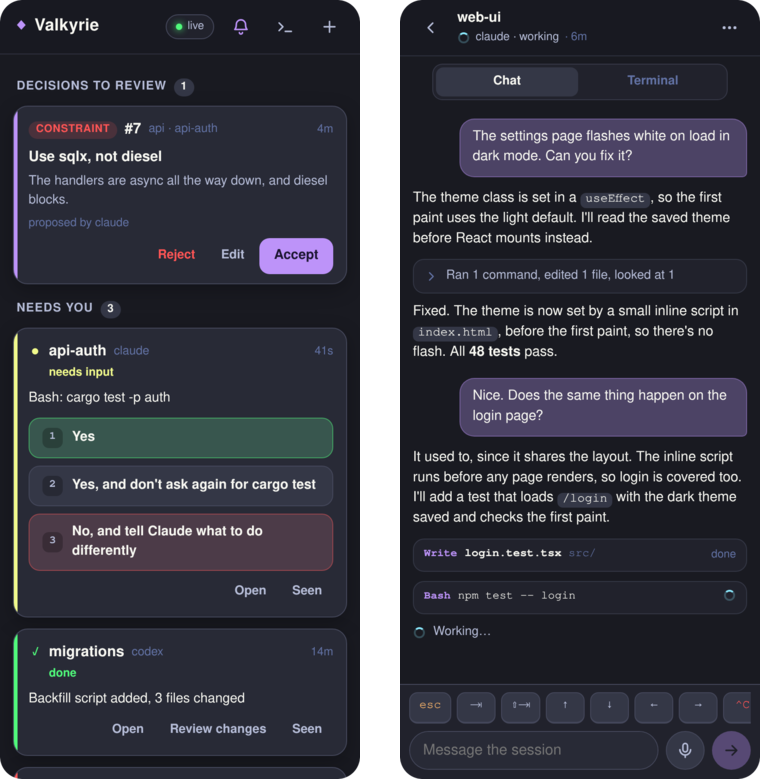
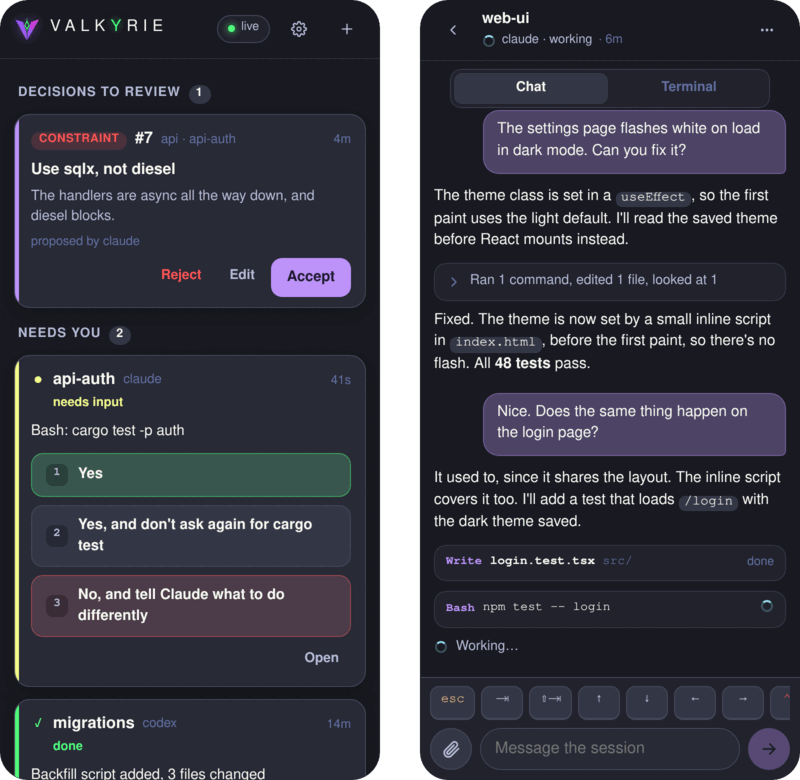
Remake the phone screenshot from the built web app, with a script
phone.png still showed the old inbox header and the Seen buttons.
docs/demo/phone.mjs renders web/dist in headless Chromium at phone size
against a stand-in daemon on the WebSocket, so the shot can be made
again after any web change without pairing or live agents.

diff --git a/docs/demo/README.md b/docs/demo/README.md
@@ -15,6 +15,20 @@ python3 docs/demo/frames.py /tmp/valk-frames docs/images/demo.gif
 It needs rsvg-convert, ImageMagick and ffmpeg. It has no phone and no sound, so a
 real recording can replace it later.
 
+## The phone screenshot
+
+`docs/images/phone.png` is the built web app in headless Chromium at phone size.
+`phone.mjs` stands in for the daemon on the app's WebSocket with made-up
+sessions, a decision and a chat, so it needs no pairing. After a web change:
+
+```sh
+cd web && npm run build
+npm i --no-save playwright && npx playwright install chromium
+node ../docs/demo/phone.mjs ../docs/images/phone.png
+```
+
+It needs ImageMagick too.
+
 ## Recording a real one
 
 A real recording would also show the phone and the chime. Keep it under 30
